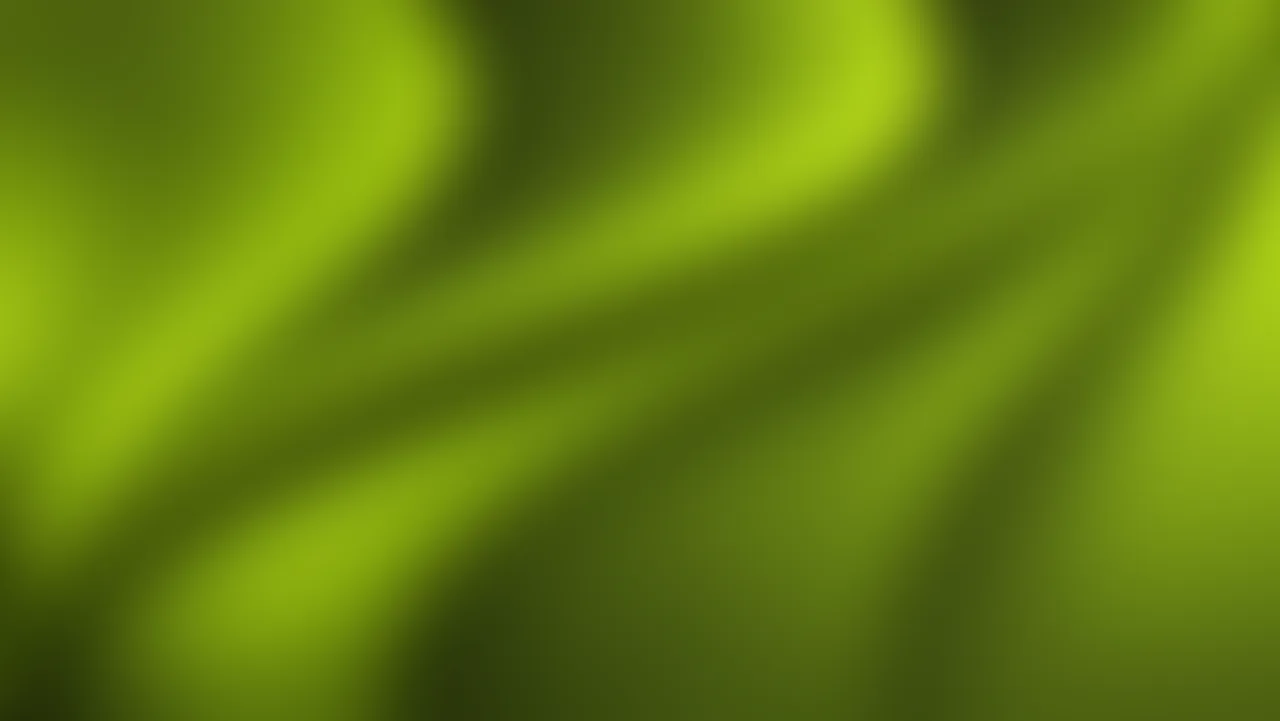
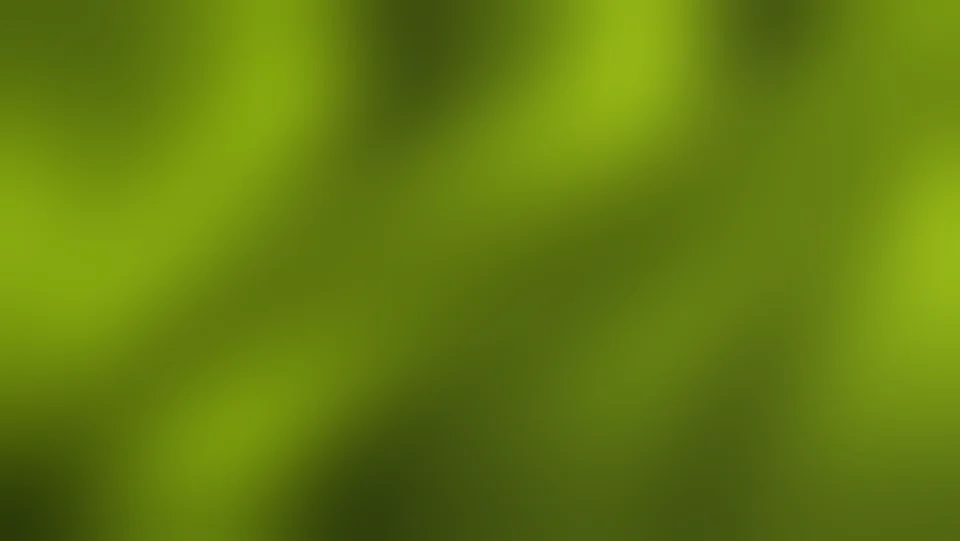
App shell: lightly blurred base photo and stronger frosted frame
Pre-render the app background as static WebP from the original sharp photos:
a light blur (~7 px) for the fixed base layer (desktop and mobile) and a heavy
blur (~88 px, exported at 960 px wide) for the frame's glass copy. Both derive
from the same original so they stay aligned. No runtime blur or backdrop-filter.
Blur strengths live at the top of scripts/make-glass-bg.mjs. The login and the
coming-soon page keep the sharp originals.

diff --git a/src/components/shell/app-background.tsx b/src/components/shell/app-background.tsx
@@ -1,27 +1,23 @@
-import { getImageProps } from "next/image"
-
 /**
  * Layer 0 of the app shell, rendered once by the (app) layout (a server component: navigation and the shell's state never
- * re-render it): the ORIGINAL auth photo, sharp, with art direction (the phone only downloads the mobile image) and
- * optimized AVIF/WebP through next/image. The theme tint (--app-bg-tint) is a separate overlay that uses a token.
- * Fixed, strict containment and its own GPU layer: scrolling the content never repaints it. No blur here: the frosted
- * look lives inside the frame (see FrameGlass).
+ * re-render it): the auth photo LIGHTLY pre-blurred (`npm run glass-bg`, strengths at the top of that script), with art
+ * direction (the phone only downloads the mobile image). The files are already optimized WebP, so they are served as-is.
+ * The theme tint (--app-bg-tint) is a separate overlay that uses a token.
+ * Fixed, strict containment and its own GPU layer: scrolling the content never repaints it. No runtime blur or filter: the
+ * soft look is baked into the image, and the heavier frosted look lives inside the frame (see FrameGlass).
  */
 export function AppBackground() {
-  const common = { alt: "", fill: true, priority: true, sizes: "100vw" } as const
-  const {
-    props: { srcSet: desktopSrcSet, ...desktopRest },
-  } = getImageProps({ ...common, src: "/images/auth-background.png" })
-  const {
-    props: { srcSet: mobileSrcSet },
-  } = getImageProps({ ...common, src: "/images/auth-background-mobile.png" })
-
   return (
     <div aria-hidden className="pointer-events-none fixed inset-0 -z-10 transform-gpu [contain:strict]">
       <picture>
-        <source media="(max-width: 767px)" srcSet={mobileSrcSet} />
-        <source media="(min-width: 768px)" srcSet={desktopSrcSet} />
-        <img {...desktopRest} alt="" className="object-cover object-center" />
+        <source media="(max-width: 767px)" srcSet="/images/app-bg-mobile.webp" />
+        <img
+          src="/images/app-bg.webp"
+          alt=""
+          fetchPriority="high"
+          decoding="async"
+          className="absolute inset-0 size-full object-cover object-center"
+        />
       </picture>
       <div className="absolute inset-0 bg-(--app-bg-tint)" />
     </div>

diff --git a/src/components/shell/frame-glass.tsx b/src/components/shell/frame-glass.tsx
@@ -1,8 +1,10 @@
 /**
- * The frosted glass of the big frame, FAKED (no backdrop-filter, no CSS filter): a pre-blurred copy of the photo
- * (`npm run glass-bg`) painted inside the frame and aligned pixel-perfect with the sharp photo behind it.
+ * The frosted glass of the big frame, FAKED (no backdrop-filter, no CSS filter): a heavily pre-blurred copy of the photo
+ * (`npm run glass-bg`) painted inside the frame and aligned pixel-perfect with the lightly blurred photo behind it. Both are
+ * derived from the same sharp original with the same aspect ratio; the heavy one is exported small (low frequency) and
+ * scaled up by object-fit: cover.
  *
- * Alignment: the sharp photo fills the viewport (`fixed inset-0`, object-fit: cover). This layer is a viewport-sized box
+ * Alignment: the base photo fills the viewport (`fixed inset-0`, object-fit: cover). This layer is a viewport-sized box
  * (100vw x 100vh, object-fit: cover, same focal point) pushed back by the frame's own distance from the viewport, so each
  * pixel lands exactly over the same pixel of the sharp photo. The frame is `fixed inset-5` (20 px) with a 1 px border, hence
  * the -21 px. It is sized in viewport units, so it stays aligned on resize, and the frame never moves when the sidebar

diff --git a/src/app/globals.css b/src/app/globals.css
@@ -311,8 +311,8 @@ input:-webkit-autofill:focus-visible {
 }
 
 /* ---------- App frame (app shell) ----------
-   Layer 0: the ORIGINAL photo, sharp (+ --app-bg-tint). Layer 1 (md+): the big frame shows a PRE-BLURRED copy of the same photo
-   inside it, aligned pixel-perfect with the sharp one, plus --glass-frame-bg and a top highlight: fake frosted glass with NO
+   Layer 0: the photo LIGHTLY pre-blurred (+ --app-bg-tint). Layer 1 (md+): the big frame shows a HEAVILY pre-blurred copy of the
+   same photo inside it, aligned pixel-perfect with layer 0 (blur strengths: scripts/make-glass-bg.mjs), plus --glass-frame-bg and a top highlight: fake frosted glass with NO
    backdrop-filter and NO CSS blur at runtime (they made scrolling heavy). Sidebar, cards, bars and round buttons are solid
    tokens (--sidebar / --card with a 1px --border). Popovers, dialogs, sheets and the command palette stay solid as well. */
 :root {

diff --git a/docs/design-system/DESIGN-SYSTEM.md b/docs/design-system/DESIGN-SYSTEM.md
@@ -249,8 +249,8 @@ Nenhuma cor nova: tudo é Papel, Grafite ou Tinta, com ou sem transparência. To
 
 | Camada | O que é | Receita |
 |---|---|---|
-| 0 | Foto de fundo **nítida**, fixa | A foto **original** de `/entrar` (`auth-background.png` ≥ 768 px, `auth-background-mobile.png` abaixo), com art direction (`<picture>`) e AVIF/WebP via `getImageProps` (`priority`, `sizes="100vw"`): o celular baixa só a imagem mobile. Camada `fixed inset-0 -z-10`, `contain: strict`, `translateZ(0)`, renderizada **uma vez** no layout `(app)` (componente de servidor). Tinta de tema por cima (`--app-bg-tint`): escuro Tinta 35 %, claro Papel 40 %; no celular, 68 % / 62 % (sem moldura, os cards ficam direto sobre a foto) |
-| 1 | Moldura (md+) com **vidro fosco falso** | `fixed inset-5` (20 px), raio 32, `overflow-hidden`, borda 1 px (Papel 14 % escuro / 60 % claro). **Dentro** dela, `FrameGlass` pinta, abaixo do conteúdo: (1) a cópia **pré-desfocada** da foto (`public/images/app-bg-frost.webp`, desfoque ~48 px, gerado por `npm run glass-bg` com sharp), (2) a tinta da moldura (escuro Tinta 30 % / claro Papel 35 %) com o brilho interno do topo e um reforço de tinta sob o cabeçalho da página, que some em ~230 px |
+| 0 | Foto de fundo **levemente desfocada**, fixa | A foto de `/login` **pré-desfocada de leve** (~7 px; `app-bg.webp` ≥ 768 px, `app-bg-mobile.webp` abaixo; o login continua com as originais nítidas), gerada por `npm run glass-bg`, com art direction (`<picture>`): o celular baixa só a imagem mobile. Camada `fixed inset-0 -z-10`, `contain: strict`, `translateZ(0)`, renderizada **uma vez** no layout `(app)` (componente de servidor). Tinta de tema por cima (`--app-bg-tint`): escuro Tinta 35 %, claro Papel 40 %; no celular, 68 % / 62 % (sem moldura, os cards ficam direto sobre a foto) |
+| 1 | Moldura (md+) com **vidro fosco falso** | `fixed inset-5` (20 px), raio 32, `overflow-hidden`, borda 1 px (Papel 14 % escuro / 60 % claro). **Dentro** dela, `FrameGlass` pinta, abaixo do conteúdo: (1) a cópia **muito desfocada** da foto (`public/images/app-bg-frost.webp`, desfoque ~88 px, exportada em 960 px de largura e ampliada com `object-fit: cover`; gerada a partir da foto original nítida por `npm run glass-bg` com sharp; as intensidades ficam no topo do script), (2) a tinta da moldura (escuro Tinta 30 % / claro Papel 35 %) com o brilho interno do topo e um reforço de tinta sob o cabeçalho da página, que some em ~230 px |
 | 2 | Sidebar | Sólida: `--sidebar` (Grafite / Papel), borda 1 px a 10 %, raio 24 |
 | 2 | Cards, top bar, botões redondos, BottomNav | Sólidos: `--card` (Grafite / Papel), borda 1 px `--border`, raio 24, sem sombras pesadas. O card de destaque (Lima) continua sólido |
 
